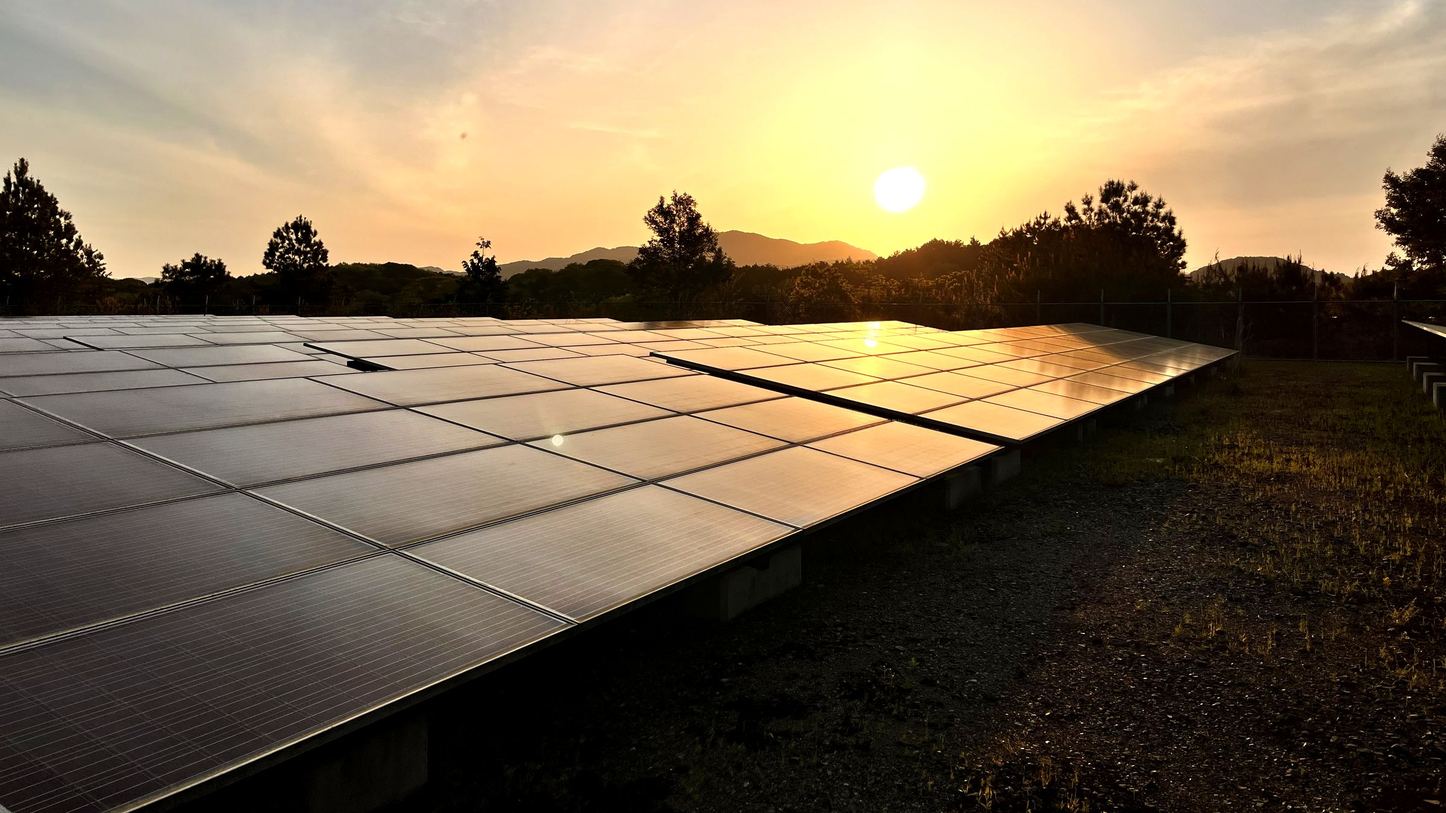
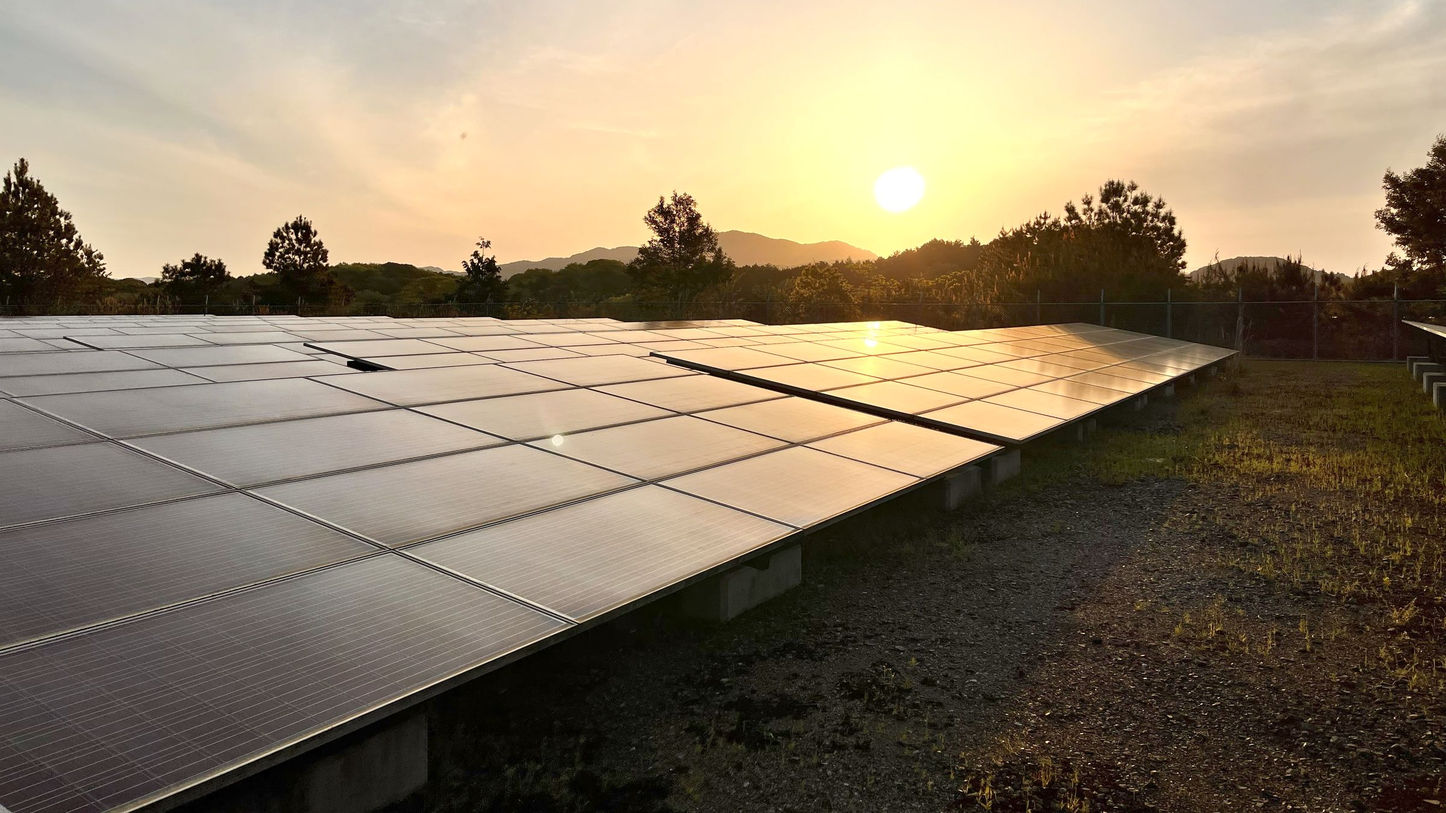
Brighten the hero photo further and keep hero text legible
Lift the photo's shadows and thin the overlay again; give the secondary
button a dark backing and lighten the eyebrow so both stay readable on
the brighter image.

Claude-Session: https://claude.ai/code/session_01NNLcp8ziWseKnZ8Ugiszb9

diff --git a/index.html b/index.html
@@ -131,7 +131,7 @@ body {
 .hero::before {
   content: '';
   position: absolute; inset: 0;
-  background: linear-gradient(90deg, rgba(14,22,16,0.78) 0%, rgba(14,22,16,0.55) 38%, rgba(14,22,16,0.12) 66%, rgba(14,22,16,0) 100%);
+  background: linear-gradient(90deg, rgba(14,22,16,0.62) 0%, rgba(14,22,16,0.4) 38%, rgba(14,22,16,0.05) 62%, rgba(14,22,16,0) 100%);
 }
 
 /* グリッド線 */
@@ -168,7 +168,7 @@ body {
   line-height: 1.45; margin-bottom: 28px;
 }
 .hero-h1 .nw { white-space: nowrap; }
-.hero-h1, .hero-hook, .hero-eyebrow-text { text-shadow: 0 2px 12px rgba(0,0,0,0.55); }
+.hero-h1, .hero-hook, .hero-eyebrow-text { text-shadow: 0 1px 3px rgba(0,0,0,0.6), 0 2px 16px rgba(0,0,0,0.6); }
 .hero-h1 .accent {
   position: relative; display: inline-block;
 }
@@ -193,6 +193,8 @@ body {
   margin-bottom: 40px; font-weight: 400;
 }
 .hero-actions { display: flex; flex-direction: column; gap: 12px; max-width: 360px; }
+.hero .btn-ghost { background: rgba(10,20,14,0.45); color: rgba(255,255,255,0.9); border-color: rgba(255,255,255,0.4); }
+.hero-eyebrow-text { color: #E9CF86; }
 .hero-proof {
   list-style: none; display: flex; flex-wrap: wrap; gap: 8px;
   margin-top: 32px;
@@ -662,7 +664,7 @@ footer {
   .hero-card { display: none; }
   .hero-left { padding: 56px 0; }
   .hero { background-position: 42% 50%; }
-  .hero::before { background: linear-gradient(180deg, rgba(14,22,16,0.5) 0%, rgba(14,22,16,0.6) 45%, rgba(14,22,16,0.25) 100%); }
+  .hero::before { background: linear-gradient(180deg, rgba(14,22,16,0.35) 0%, rgba(14,22,16,0.5) 45%, rgba(14,22,16,0.15) 100%); }
   .hero-h1 { font-size: min(5.8vw, 1.8rem); }
   .hero-hook { font-size: 0.95rem; }
   .hero-inner { padding: 0 16px; }
